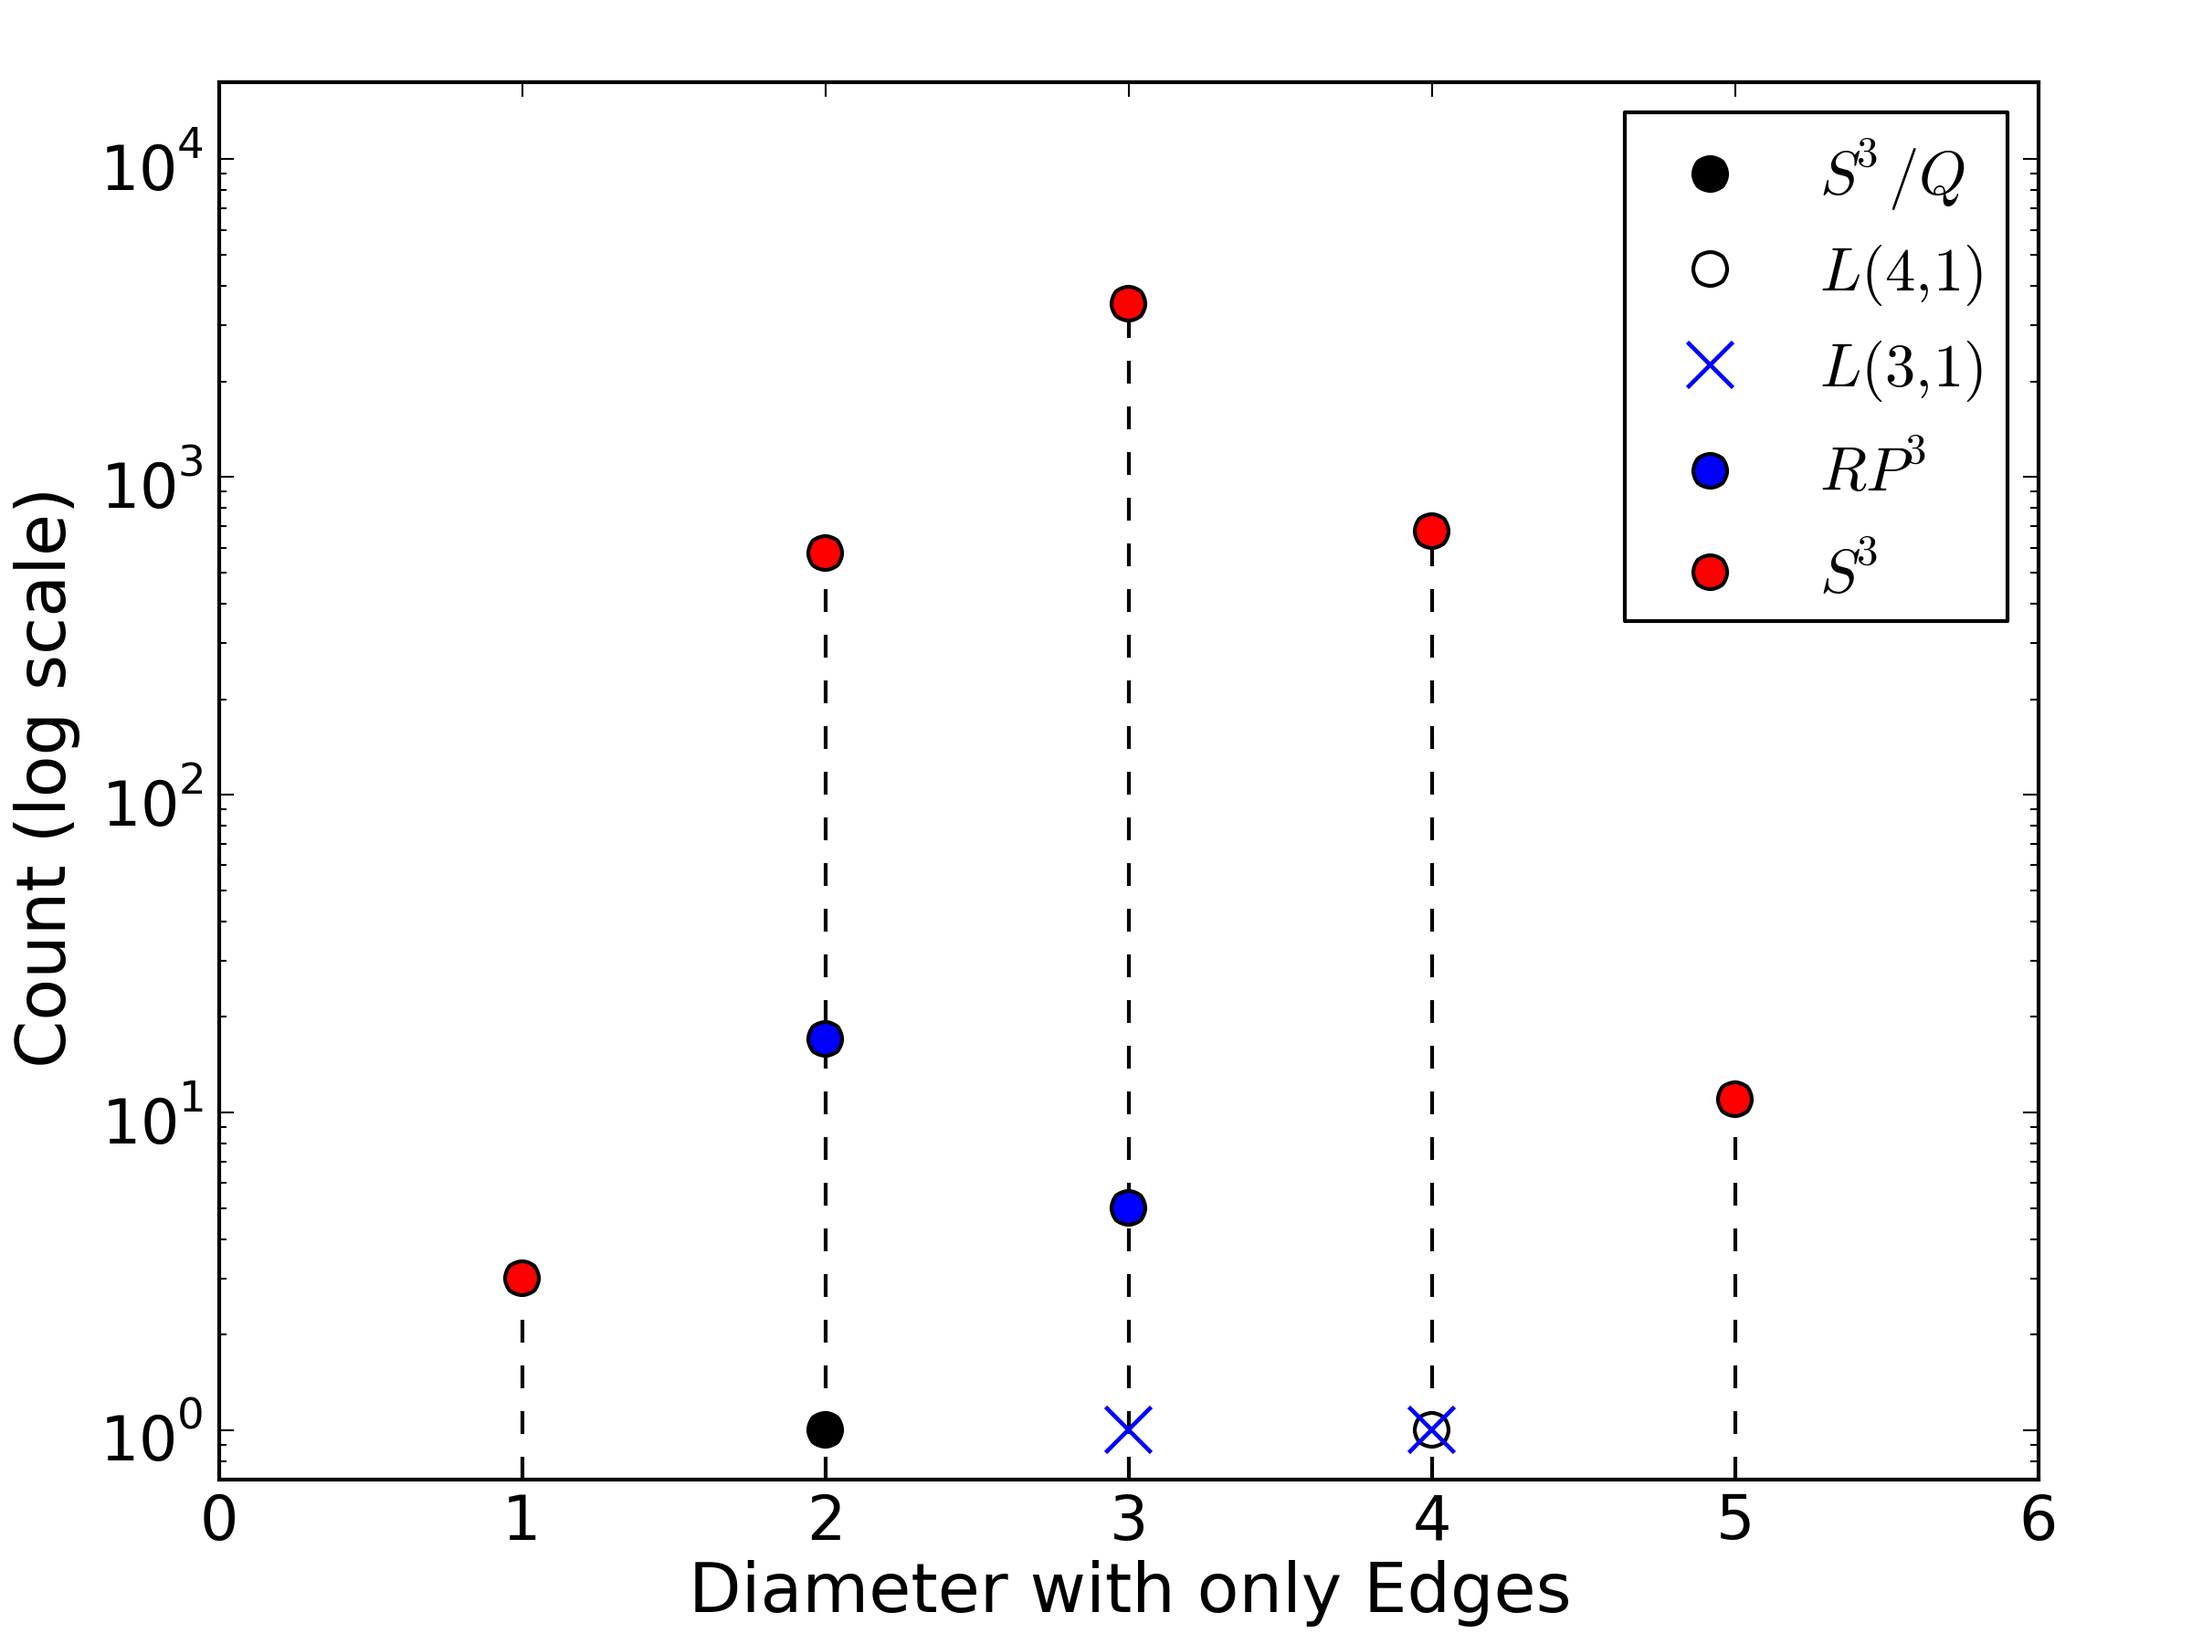
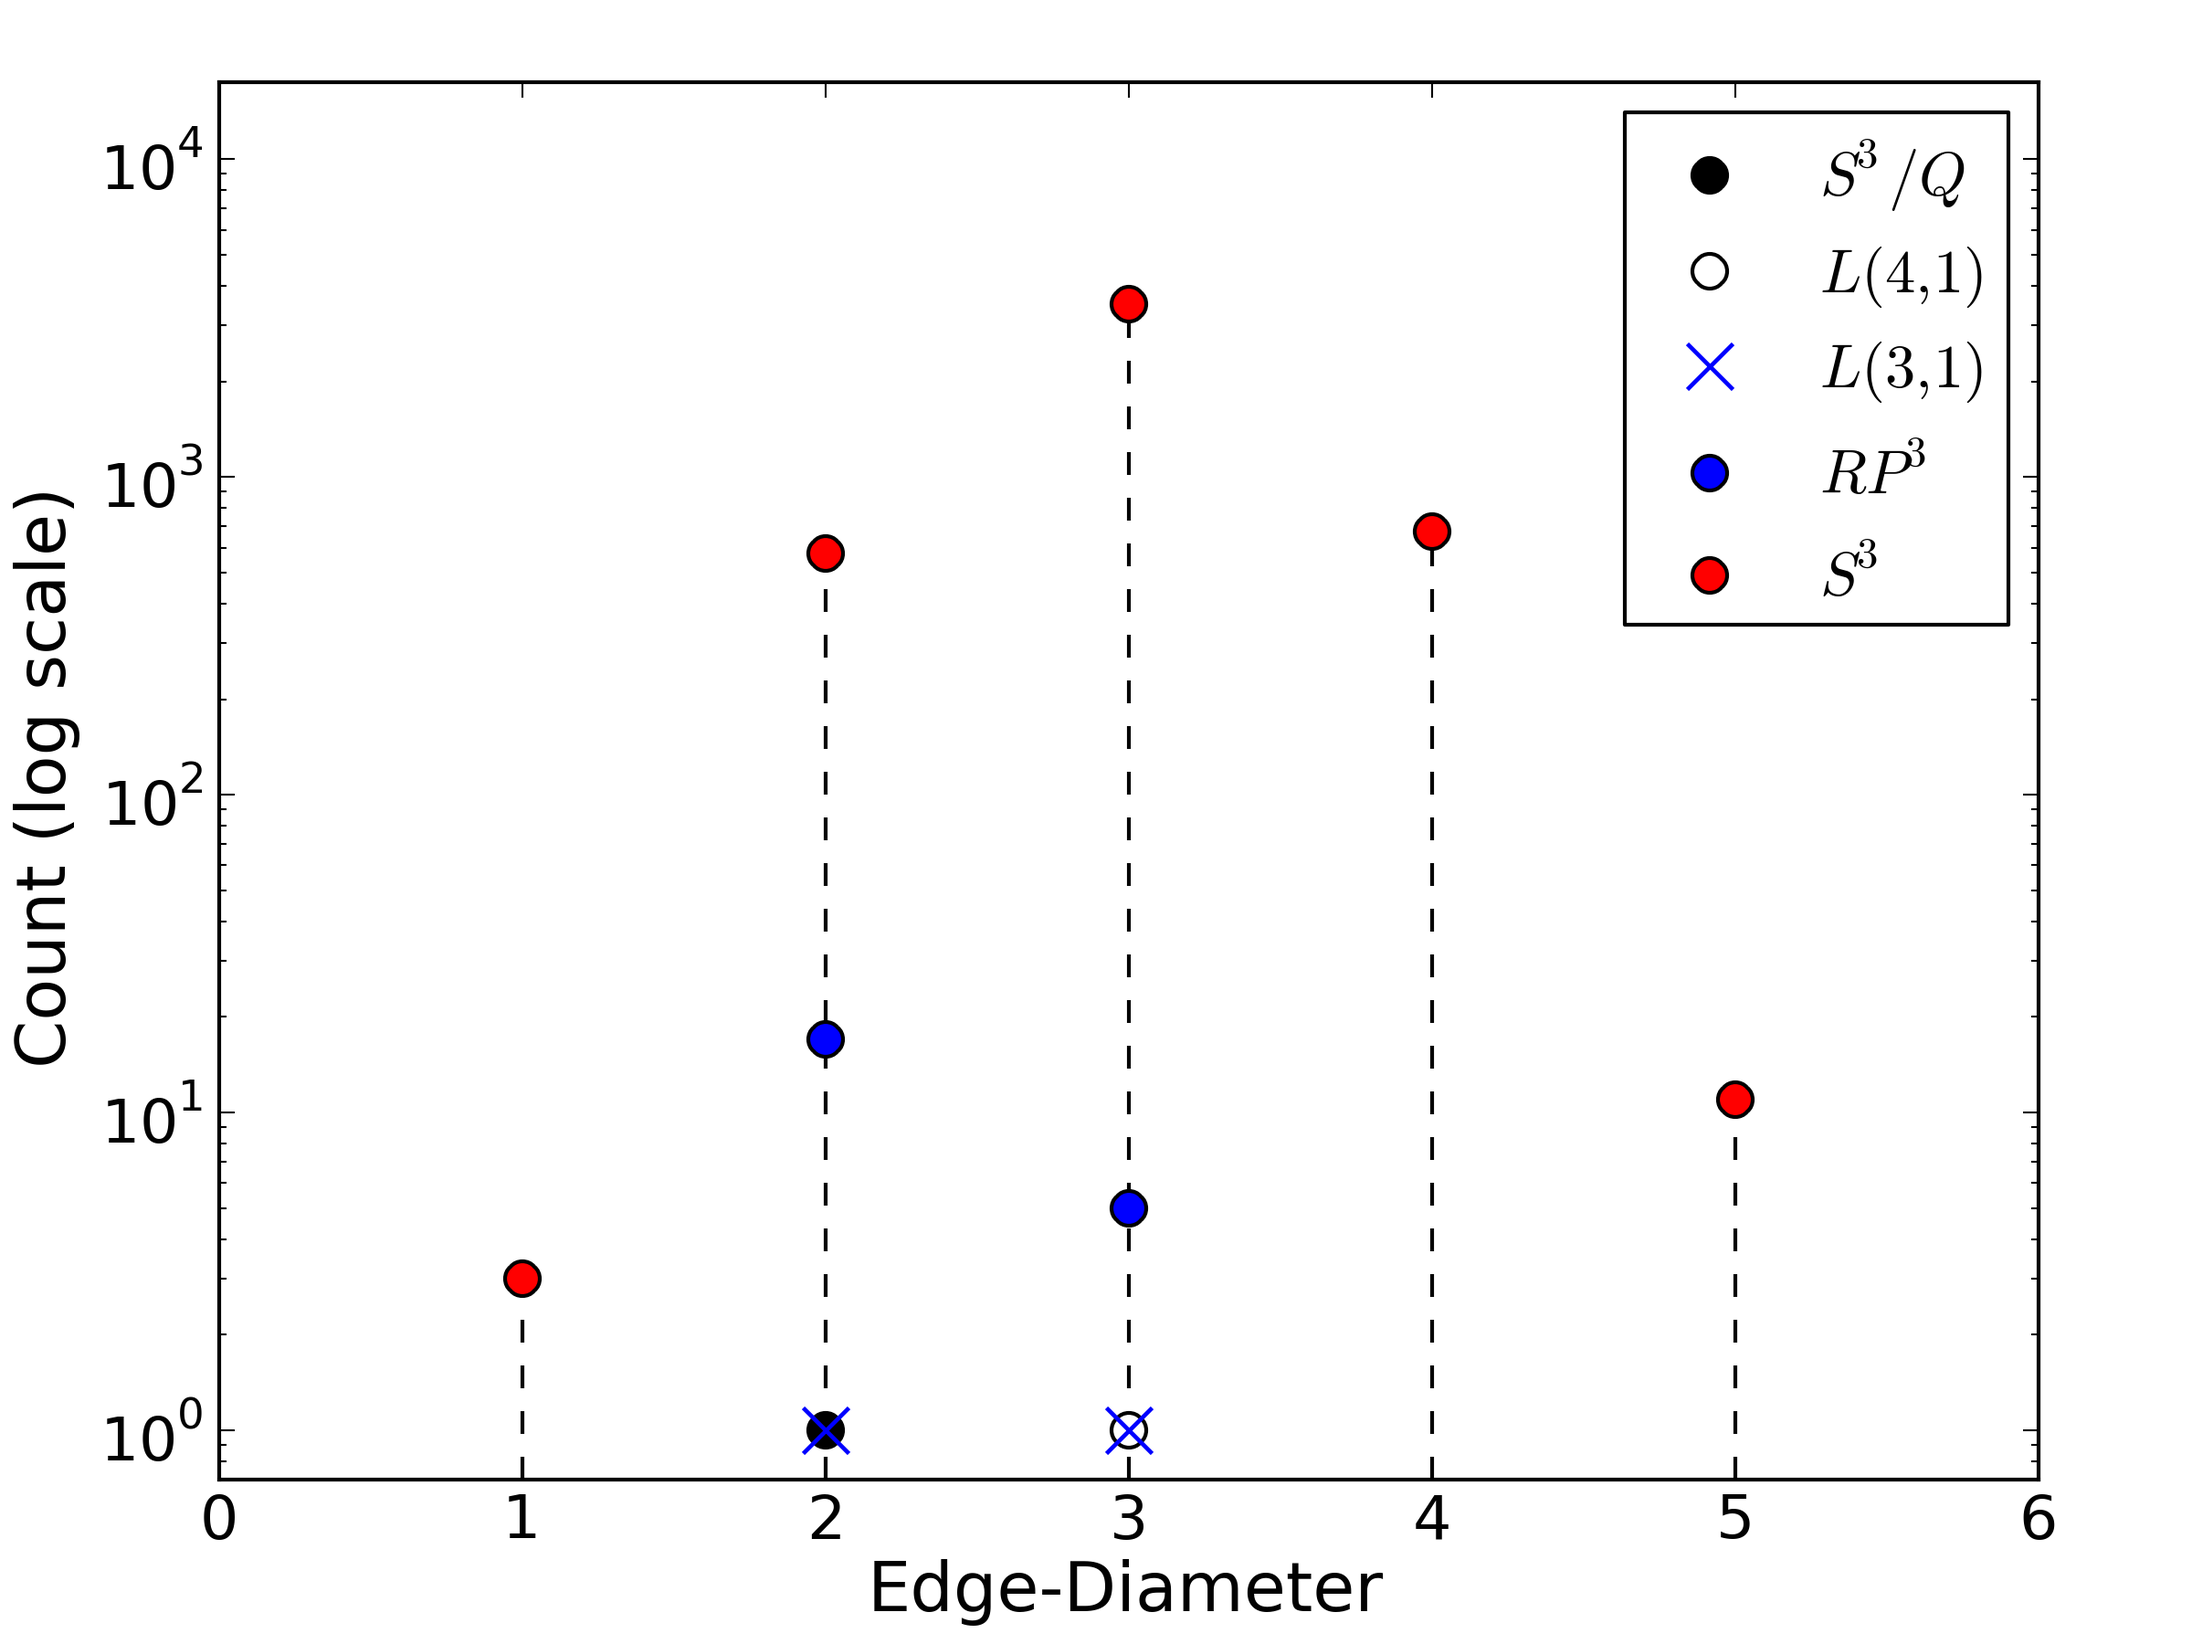
more writing, fixed some small problems with the graphs

diff --git a/paper/paper.tex b/paper/paper.tex
@@ -41,7 +41,7 @@ Chatham University \\ Woodland Rd, Pittsburgh PA 15232 USA}
 \maketitle
 
 \begin{abstract}
-The generalized sphere theorem of Grove and Shiohama is an important result in the differential geometry of positively curved manifolds. It shows that if $M$ is a Riemannian manifold whose sectional curvature is everywhere greater than a positive constant and $M$ has diameter greater than half the maximum allowed by the Bonnet-Myers theorem, then $M$ must be homeomorphic to a sphere. In this paper, we present a novel discrete version of this theorem which applies to positively curved {\em combinatorial} 3-manifolds. That is, those with at most five tetrahedra incident at each edge, or equivalently, those with an angle deficit at each edge in the standard piecewise-linear metric. Such spaces have been studied previously and found to satisfy a beautiful discrete version of the Bonnet-Myers theorem. Here we prove the corresponding {\em discrete} generalized sphere theorem using a complete census of the positively curved 3-manifolds completed by Lutz and Sullivan.
+The generalized sphere theorem of Grove and Shiohama is an important result in the differential geometry of positively curved manifolds. It shows that if $M$ is a Riemannian manifold whose sectional curvature is everywhere greater than a positive constant and $M$ has diameter greater than half the maximum allowed by the Bonnet-Myers theorem, then $M$ must be homeomorphic to a sphere. In this paper, we present a novel discrete version of this theorem which applies to positively curved {\em combinatorial} 3-manifolds. That is, those with at most five tetrahedra incident at each edge, or equivalently, those with an angle deficit at each edge in the standard piecewise-linear metric. Such spaces have been studied previously and found to satisfy a beautiful discrete version of the Bonnet-Myers theorem. Here, we use a complete census of the positively curved 3-manifolds completed by Lutz and Sullivan to prove a corresponding {\em discrete} generalized sphere theorem.
 \end{abstract}
 
 
@@ -110,9 +110,9 @@ The first new type of path is called a {\em hop}.
     \label{fig:jump}
 \end{figure}
 
-Just as for edges in an edge-path, the length of each hop and jump will be its length as a PL-path in the standard PL metric. Some Euclidean geometry tells us these lengths are \begin{equation} \label{eqn:hop_length} H = \frac{2}{3}\sqrt{2} \end{equation} and \begin{equation} \label{eqn:jump_length} J = \frac{1}{2}\sqrt{2} + \sqrt{3} \end{equation} respectively. We let $d(v,w)$ denote the \textbf{distance between vertices $v$ and $w$} obtained by minimizing over all paths containing edges as well as hops and jumps. Similarly, we let $diam(M)$ denote the \textbf{diameter of $M$} defined in terms of the distance function $d$. Let $\mathcal{P}$ denote the set of all the paths containing edges, hops or jumps.
+Just as for edges in an edge-path, the length of each hop and jump will be its length as a PL-path in the standard PL metric. Some Euclidean geometry tells us these lengths are \begin{equation} \label{eqn:hop_length} H = \frac{2}{3}\sqrt{2} \end{equation} and \begin{equation} \label{eqn:jump_length} J = \frac{1}{2}\sqrt{2} + \sqrt{3} \end{equation} respectively. We let $d(v,w)$ denote the \textbf{distance between vertices $v$ and $w$} obtained by minimizing over all paths containing edges as well as hops and jumps. Similarly, we let $diam(M)$ denote the \textbf{diameter of $M$} defined in terms of the distance function $d$. Finally, let $\mathcal{P}$ denote the set of all the paths containing edges, hops or jumps.
 
-Why are these paths relevant to this paper? In the classical setting, the generalized sphere theorem requires a manifold to have diameter more than half the maximum allowed by the Bonnet-Myers theorem, and this diameter bound cannot be improved. If we naively imitate the classical results in the discrete setting, from Theorem \ref{thm:discrete_BM} we would want to assume the bound $diam_1(M)>\frac{5}{2}$. Unfortunately, there are positively curved combinatorial 3-manifolds with edge-diameter three that are not homeomorphic to the 3-sphere. In particular, as we will see, $\mathbb{RP}^3$ has positively curved triangulations with edge-diameter three. However, if we instead use the finer-grained measure of diameter, $diam(M)$, the problem disappears and the discrete results mirror the classical ones exactly. That is, we can prove a discrete version of the generalized sphere theorem with a diameter bound exactly half the maximum allowed by the corresponding discrete Bonnet-Myers theorem.
+Why are these paths relevant to this paper? In the classical setting, the generalized sphere theorem requires a manifold to have diameter more than half the maximum allowed by the Bonnet-Myers theorem, and this diameter bound cannot be improved. If we naively imitate the classical results in the discrete setting, from Theorem \ref{thm:discrete_BM} we would want to assume the bound $diam_1(M)>\frac{5}{2}$. Right away we see a discrepancy between the discrete and classical results since this bound cannot possibly be sharp. Worse, the smallest weakening that could be sharp is $diam_1(M) \geq 3$ and this bound does not work. As we will see, there are positively curved combinatorial 3-manifolds $M$ with $diam_1(M)=3$ but which are {\em not} homeomorphic to the 3-sphere. However, if we instead use the finer-grained measure of diameter, $diam(M)$, the problem disappears and the discrete results mirror the classical smooth ones exactly. That is, we can prove a discrete version of the generalized sphere theorem with a diameter bound exactly half the maximum allowed by the corresponding discrete Bonnet-Myers theorem.
 
 What is the discrete Bonnet-Myers theorem corresponding to Theorem \ref{thm:discrete_BM} but which uses $diam(M)$? From the proof of Theorem \ref{thm:discrete_BM} in \cite{Trout10}, we have the following bound on the possible distances which occur in a positively curved 3-manifold.
 
@@ -131,13 +131,18 @@ What is the discrete Bonnet-Myers theorem corresponding to Theorem \ref{thm:disc
 
 We are now able to state our main result.
 
-\begin{thm} Any connected positively curved combinatorial 3-manifold $M$ with $diam(M)>J$ is homeomorphic to the 3-sphere. This bound is sharp, and equal to half the maximum diameter which occurs for any such $M$.
+\begin{thm} Let $M$ be a connected, positively curved, combinatorial 3-manifold. If $M$ has $diam(M)>J$ then it is homeomorphic to a 3-sphere. Moreover, this bound is sharp and equal to half the maximum diameter which occurs for any such $M$.
 \label{thm:discrete_GS}
 \end{thm}
 
-\noindent The proof of this theorem relies on the remarkable work of Lutz, Sullivan and Sulanke in \cite{Lutz07, LutzSul_unpub, sulanke2009isomorphism} who created a complete census of positively curved combinatorial 3-manifolds along with a list of their topological types, see \cite{Lutz_online_manifolds} and \cite{Lutz_online_topological_types}. This census contains 4787 manifolds, with the following topologies represented: the 3-sphere $S^3$, the real projective space $\mathbb{RP}^3$, the lens spaces $L(3,1)$ and $L(4,1)$, and the cube space $S^3/Q$. Note that all of these manifolds are homeomorphic to either a 3-sphere or to the quotient space of a 3-sphere under the action of a finite group. 
+\noindent The proof of this theorem relies on the remarkable work of Lutz, Sullivan and Sulanke in \cite{Lutz07, LutzSul_unpub, sulanke2009isomorphism} who created a complete census of positively curved combinatorial 3-manifolds along with a list of their topological types. See \cite{Lutz_online_manifolds} and \cite{Lutz_online_topological_types}. This census contains 4787 manifolds, with the following topologies represented: the 3-sphere $S^3$, the real projective space $\mathbb{RP}^3$, the lens spaces $L(3,1)$ and $L(4,1)$, and the cube space $S^3/Q$. Note that all of these manifolds are homeomorphic to either a 3-sphere or to the quotient space of a 3-sphere under the action of a finite group. 
 
-A small Python program (available on request) was created to examine each manifold in the census and compute its diameter and edge-diameter. See Figure \ref{fig:type_statistics} for a plot of the number of manifolds by topological type and diameter. As claimed, every manifold with diameter greater than $J$ is a 3-sphere. The corresponding data using the coarser-grained edge-diameter can be found in Figure \ref{fig:type_statistics_edges}. Note the existence of $3$-manifolds with edge-diameter greater than half the maximum allowed edge-diameter and which are {\em not} homeomorphic to the 3-sphere. However, we still have the following:
+A small Python program (available on request) was created to examine each manifold in the census and compute its diameter and edge-diameter. See Figure \ref{fig:type_statistics} for a plot of the number of manifolds by topological type and diameter. As claimed, every manifold with diameter greater than $J$ is a 3-sphere. The corresponding data using the coarser-grained edge-diameter can be found in Figure \ref{fig:type_statistics_edges}. Note the existence of $3$-manifolds with edge-diameter greater than half the maximum allowed edge-diameter and which are {\em not} homeomorphic to the 3-sphere.
+
+If one absolutely insists on results stated in terms of edge-diameter then the census does give us the following result:
+
+\begin{thm} If $M$ is a connected, positively curved, combinatorial 3-manifold satisfying the bound $diam_1(M) > 3$ then $M$ is homeomorphic to the 3-sphere. Moreover, this bound is sharp.
+\end{thm}
 
 \begin{figure}
     \begin{center}
@@ -174,7 +179,7 @@ A small Python program (available on request) was created to examine each manifo
     {
 	    \setlength\fboxsep{15pt}
 		\setlength\fboxrule{0pt}
-		\fbox{\includegraphics[width=0.9\linewidth]{figures/split_statistics.png}}
+		\fbox{\includegraphics[width=0.9\linewidth]{figures/split_edge_diameters.png}}
     }
     \renewcommand{\arraystretch}{1.2}
 	\begin{tabular} {| r | r | r | r | r | r | r |}	
@@ -197,9 +202,6 @@ A small Python program (available on request) was created to examine each manifo
 \end{figure}
 
 \section{Discussion}
-In the classical version of the generalized sphere theorem, the diameter bound is sharp and exactly half the maximum diameter allowed by the classical Bonnet-Myers theorem. In the discrete setting discussed in this paper, we have seen that this relationship between diameter bounds cannot be maintained if distances are measured by edge-paths. However, if we expand the set of paths to include hops and jumps then we can prove a discrete generalized sphere theorem using a sharp diameter bound exactly half that of our discrete Bonnet-Myers theorem.
-
-
 We should mention another notable advantage of expanding the space of paths to include hops and edges. In classical differential geometry, the starting point, the initial direction, and length completely determine a geodesic. There is no branching of geodesics. This property of fundamental importance to many proofs in Riemannian geometry. If we use only edge-paths, then in a positi`vely curved combinatorial 3-manifold it is possible to have two minimal paths with the same length and which begin by traversing the same edge, yet reach distinct destination vertices. That is, using only edge paths, minimal geodesics can ``branch''.
 
 This important property is restored, at least for positively curved manifolds, if we include hops and jumps. In \cite{Trout10} the following is shown.

diff --git a/split_edge.py b/split_edge.py
@@ -46,8 +46,8 @@ markeredgewidths = [mewdef,mewdef,1.1,mewdef,mewdef]
 
 countd = {}
 countd[ '$S^{3}/Q$'] = [ 0, 1, 0, 0, 0]
-countd[ '$L(4,1)$' ] = [ 0, 0, 0, 1, 0]
-countd[ '$L(3,1)$' ] = [ 0, 0, 1, 1, 0]
+countd[ '$L(4,1)$' ] = [ 0, 0, 1, 0, 0]
+countd[ '$L(3,1)$' ] = [ 0, 1, 1, 0, 0]
 countd[ '$RP^{3}$' ] = [ 0,17, 5, 0, 0]
 countd[ '$S^{3}$'  ] = [ 3, 574, 3498, 675, 11 ]
 
@@ -60,7 +60,7 @@ for t,m,ms,mew in zip(types,markers,markersizes,markeredgewidths):
 
     ax.semilogy(diameters,countd[t],m,ms=ms,mew=mew,label=t)
 
-ax.set_xlabel('Diameter with only Edges')
+ax.set_xlabel('Edge-Diameter')
 #ax.xaxis.set_label_coords(0.5, -0.12)
 ax.set_ylabel('Count (log scale)')
 ax.set_xticks([0] + diameters + [6])
